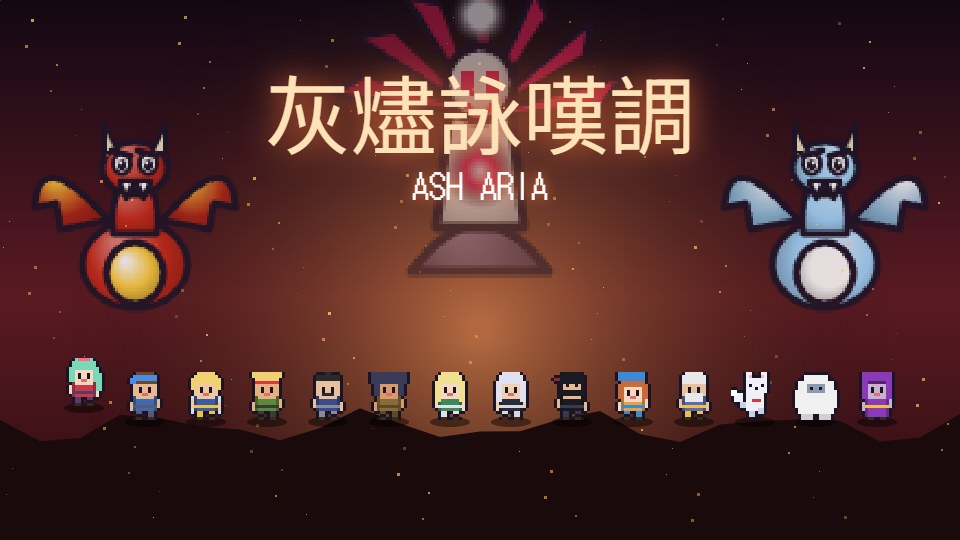
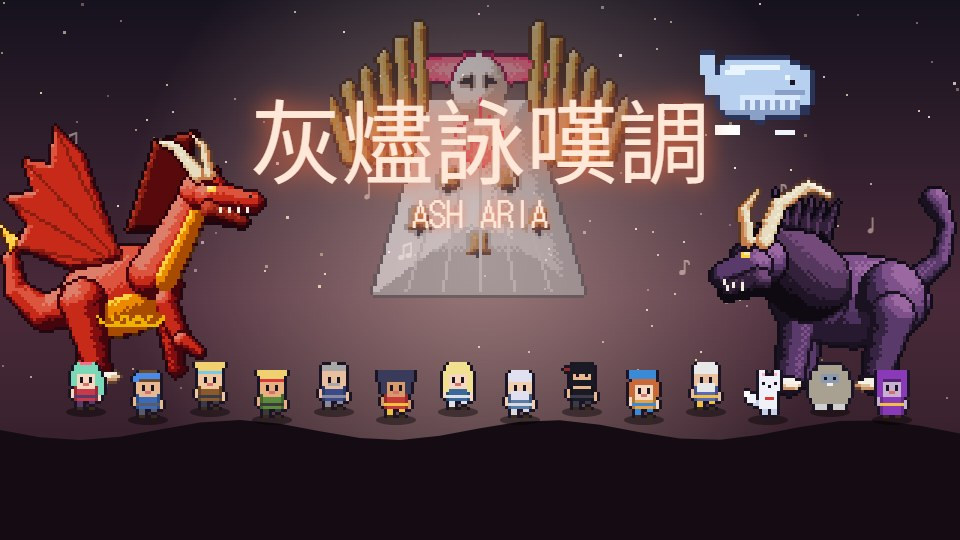
Ash Aria: original story text and new key art

diff --git a/games.js b/games.js
@@ -20,9 +20,9 @@ window.GAMES = [
     players: '1',
     added: '2026-10-20',
     title:    { zh: '灰燼詠嘆調', en: 'Ash Aria' },
-    tagline:  { zh: '向 Final Fantasy VI 致敬的原創 JRPG：十五位各有專屬指令的角色、ATB 戰鬥、星晶魔法，起承轉合四幕——世界真的會崩壞。', en: 'An original JRPG in tribute to Final Fantasy VI: fifteen heroes with their own commands, ATB battles, Astral magic and four acts — and the world really does break.' },
-    about:    { zh: '帝國用星靈的力量造出能用魔法的「晶騎士」。失去記憶、半人半星靈的少女艾莉雅在雪夜的礦都醒來，和寶藏獵人洛恩、沙漠之王艾德蒙、武僧賽伊、霞之國的武士桐生、荒原的野孩子嘉藍、前帝國將軍瑟琳娜、飛空艇船長雷吉斯、刺客夜鴉、小畫家莉莉、老魔導師波洛、雪狐摩卡、雪人烏瑪、模仿師鏡一起對抗帝國與笑面魔導卿維瑟克。每個人都有專屬指令：幻化、竊取、機工、用方向鍵輸入的拳技、蓄力的居合、化身魔物的野性、吸收魔法的封魔、按鍵停下的命運輪、投擲、描繪、青魔、狐舞、狂怒、模仿。ATB 即時回合戰鬥，裝備星晶召喚並學習魔法。第一幕三條河流的分線、歌劇院的詠嘆調、皇帝的晚宴、浮空大陸上的三柱——然後世界崩壞。一年後，瑟琳娜在孤島醒來，在燒焦的世界裡一個一個找回同伴，登上審判之塔。兩個世界地圖、飛空艇、16 座城鎮、30 座迷宮、105 種魔物、24 顆星晶、八龍、鬥技場，十五人各自的結局。中英文都可以玩。',
-                en: 'The Empire forges magic-wielding Crystal Knights from the power of the Astrals. Aria, a half-Astral girl with no memory, wakes in a snowbound mining town and stands against the Empire and its laughing magister Vissek with Rowan the treasure hunter, Edmund the desert king, Sai the monk, Kiriyu the samurai of Kasumi, Galan the wild child, Selene the former general, Regis the airship captain, Nightcrow the assassin, Lili the little painter, Bolo the old mage, Moka the snow fox, Uma the yeti and Kagami the mimic. Every hero has a command of their own: Astralize, Steal, Tools, Blitzes you enter with the arrow keys, charged Iai, Feral beast forms, the spell-swallowing Runeblade, Fortune reels you stop by hand, Throw, Sketch, Lore, Dance, Berserk and Mimic. Active Time Battles, and Astrals you equip to summon and to learn magic. Three rivers to follow in Act I, an aria at the opera, the Emperor\'s banquet, the Pillars on the Floating Isle — and then the world breaks. A year later Selene wakes on a lonely island and finds her friends one by one across a scorched world, then climbs the Spire of Judgement. Two world maps, an airship, 16 towns, 30 dungeons, 105 monsters, 24 Astrals, eight dragons, a colosseum and an ending for each of the fifteen. In Chinese and English.' },
+    tagline:  { zh: '一個關於歌與沉默的原創 JRPG：鐘聲擋住灰潮，鐘卻是用星靈熔成的。十五位各有專屬指令的同伴、ATB 戰鬥、起承轉合四幕。', en: 'An original JRPG about song and silence: bells hold back the Ashtide, and the bells are made of melted Astrals. Fifteen companions with their own commands, ATB battles and four acts.' },
+    about:    { zh: '艾瑟蘭是一個會唱歌的世界，萬物都是「星歌」的一部分。人們用鐘聲擋住吞噬一切的灰潮——而聖詠院的鐘，是把星靈熔進去做成的。沒有影子的少女艾莉雅，被大指揮者歐瑟當成「樂器」養大；她在霜石鎮的礦坑裡聽見冰封星靈的歌，第一次說了「不」。和灰路信使洛恩、風琴城的工匠艾德蒙、回音寺的拳僧賽伊、快要失明的老刀匠桐生、馬戲團的馴獸男孩嘉藍、燈塔的守鐘騎士瑟琳娜、雲鯨牧人雷吉斯、帶著老鷹的賞金獵人夜鴉、見習抄寫員莉莉、怪物學者波洛、雪狐狐巫摩卡、守護石像烏瑪、鏡廳的映影鏡，以及審判官雷歐娜一起旅行。溫柔的反派歐瑟想讓整首星歌停下來，演奏讓世界安靜睡去的「終止符」。每個人都有專屬指令：回音化、妙手、機巧、用方向鍵敲節奏的拳鳴、蓄勢的居合、模仿魔物的馴獸、吸收魔法的吸音劍、按鍵停下的天候輪、投擲、謄錄、識技、風土歌、暴走、映照。三條河流的分線、在大音樂會上用對位旋律喚醒被控制的艾莉雅、審判、燃燒的書庫——然後三口巨鐘同時響起，世界失去了聲音。一年後，洛恩在燈塔醒來，撿起一枚會哼歌的貝殼，一個一個找回同伴、打倒吞下艾莉雅八個音的不協之獸，在安息之塔頂端把她唱回來。全新的像素魔物美術、兩個世界地圖、雲鯨、16 座城鎮、30 座迷宮、105 種魔物、24 顆星晶、鬥技場，依找回的音與同伴而變化的結局。中英文都可以玩。',
+                en: 'Etheran is a world that sings: everything in it is part of the Star Song. People hold back the all-devouring Ashtide with the sound of bells, and the Choir makes its bells by melting Astrals into them. Aria, a girl with no shadow, was raised as an "instrument" by the High Conductor Orsay; in the mines of Frostvale she hears a frozen Astral sing and, for the first time, says no. She travels with Rowan the Ash-Road courier, Edmund the wind-organ artificer, Sai the monk of the Echo Temple, Kiriyu the old swordsmith going blind, Galan the circus beast-tamer, Selene the lighthouse Bell Warden, Regis the cloud-whale herder, Nightcrow the bounty hunter and her hawk, Lili the apprentice scribe, Bolo the monster scholar, Moka the fox shrine maiden, Uma the stone guardian, Kagami of the Hall of Mirrors, and Leona the Magistrate. Their gentle enemy Orsay wants the Star Song to stop: to play the Final Rest and let the world fall peacefully asleep. Every companion has a command of their own: Echo Form, Pilfer, Gadgets, Fist Echoes beaten out on the arrow keys, charged Iai, Beastcall, the spell-swallowing Hushblade, a Weather Wheel you stop by hand, Throw, Transcribe, Studied Arts, Land Song, Rampage and Reflect. Three rivers to follow in Act I, a counter-melody sung to wake Aria at the Grand Concert, a trial, a burning archive — and then three great bells ring together and the world loses its sound. A year later Rowan wakes in a lighthouse, picks up a humming shell, finds his friends one by one, defeats the Discordant Beasts that swallowed Aria\'s eight notes, and sings her back at the top of the Tower of Rest. New pixel-art monsters, two world maps, a cloud whale to fly, 16 towns, 30 dungeons, 105 monsters, 24 Astrals, a colosseum, and an ending that changes with the notes and friends you find. In Chinese and English.' },
     controls: { zh: '方向鍵/WASD 移動 · Z/空白/Enter 確定、對話 · X/Esc 選單、取消 · M 音樂 · 戰鬥中選單打開時時間會停止 · 手機有方向鍵與按鈕', en: 'Arrows/WASD move · Z/Space/Enter confirm and talk · X/Esc menu and cancel · M music · time stops while a battle menu is open · touch d-pad and buttons on phones' },
   },
   {

diff --git a/index.html b/index.html
@@ -77,7 +77,7 @@
     </form>
   </div>
 
-  <script src="games.js?v=52"></script>
+  <script src="games.js?v=53"></script>
   <script src="app.js?v=10"></script>
   <script type="module" src="account.js?v=2"></script>
 </body>
